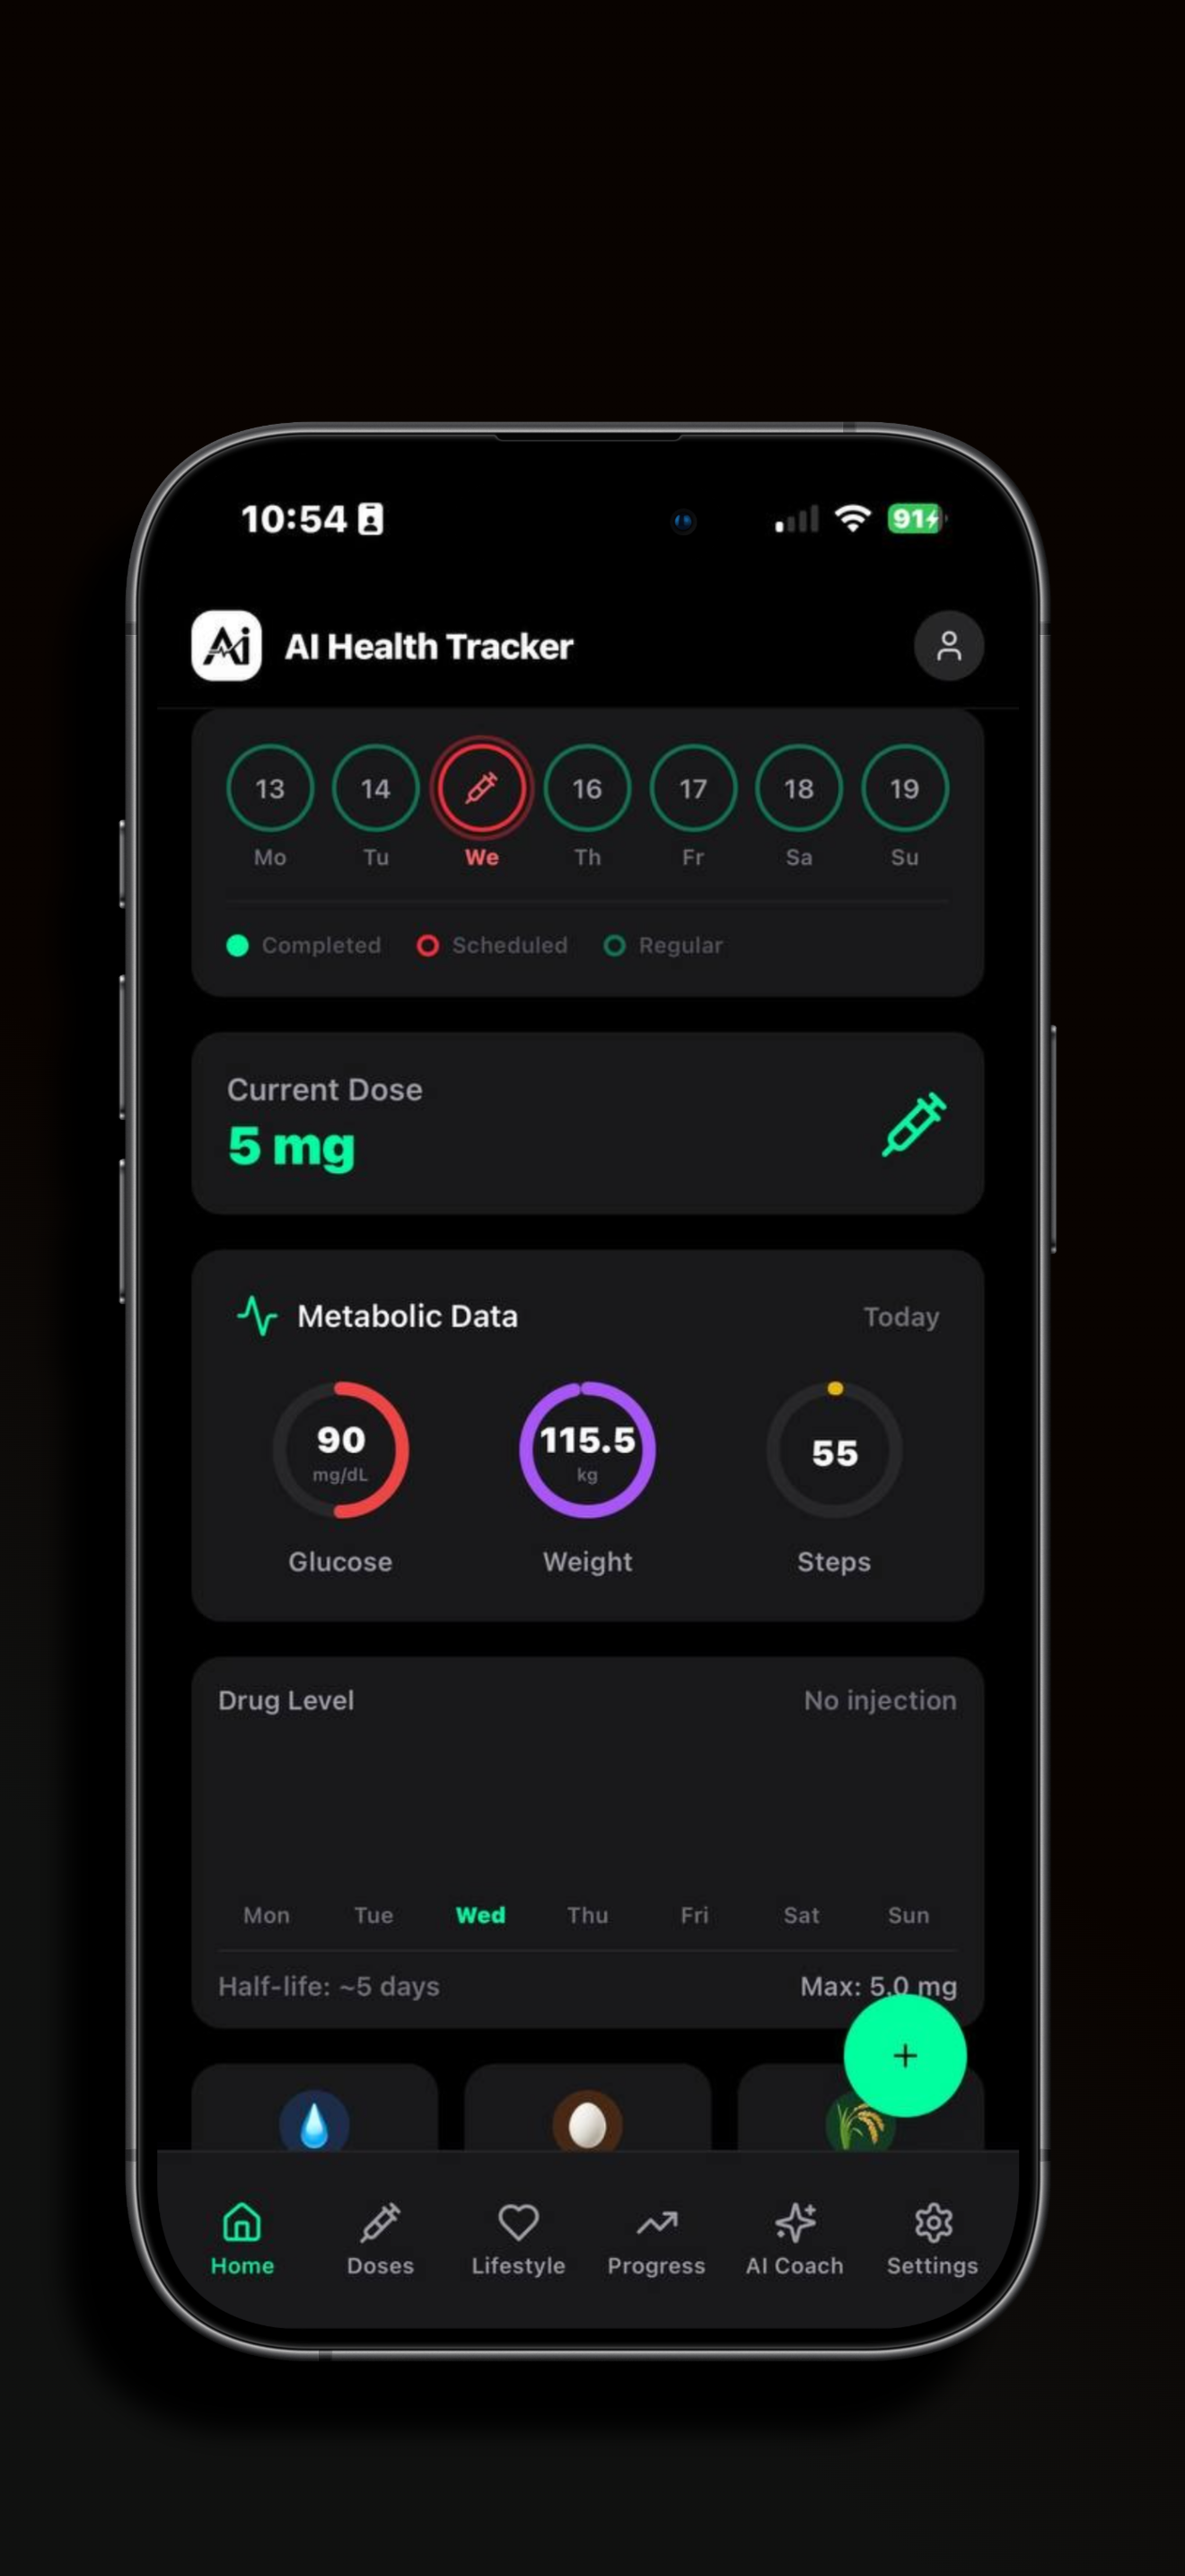
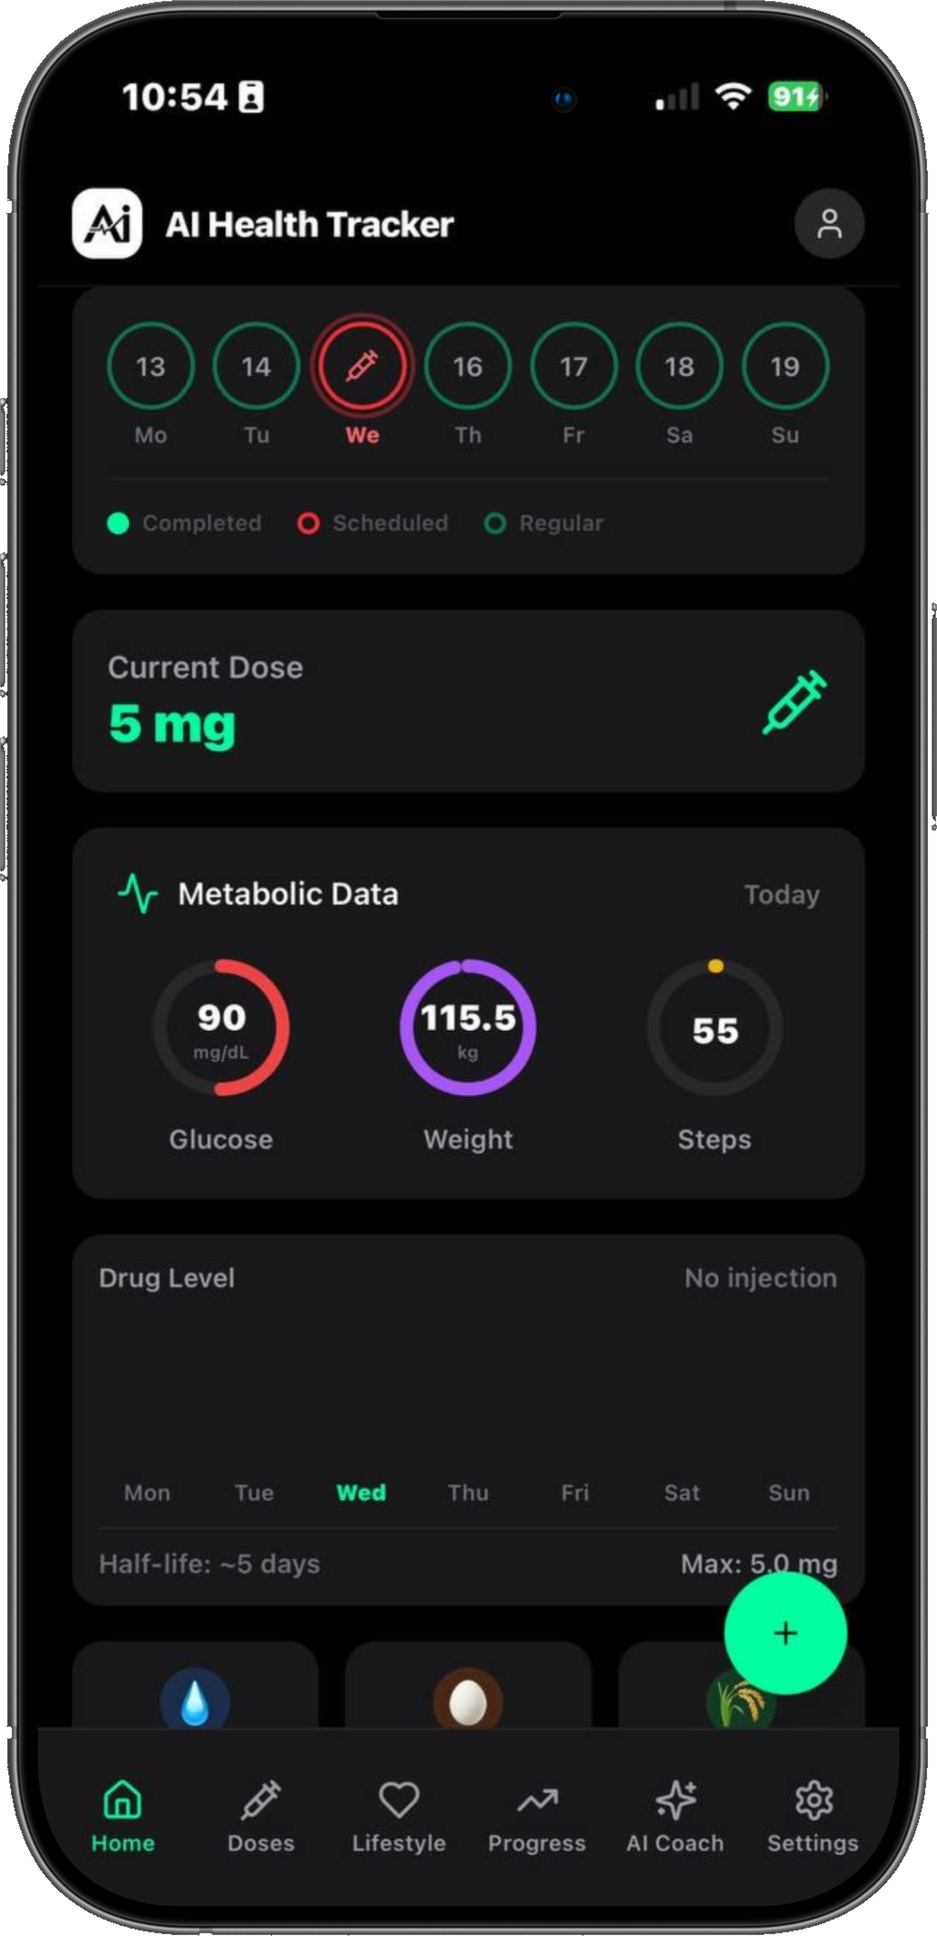
feat: real app screenshot, background removed, premium drop-shadow glow

diff --git a/src/pages/AppPage.tsx b/src/pages/AppPage.tsx
@@ -164,9 +164,8 @@ export default function AppPage() {
                   src={appScreenshot}
                   alt="AI Health Tracker App"
                   style={{
-                    width: 230,
-                    borderRadius: 40,
-                    boxShadow: `0 0 0 1px ${app.color}20, 0 32px 80px rgba(0,0,0,0.65), 0 0 60px ${app.color}18`,
+                    width: 240,
+                    filter: `drop-shadow(0 0 36px ${app.color}30) drop-shadow(0 32px 64px rgba(0,0,0,0.7))`,
                     position: 'relative',
                     zIndex: 1,
                     display: 'block',

diff --git a/src/components/Hero.tsx b/src/components/Hero.tsx
@@ -90,8 +90,7 @@ export default function Hero() {
               alt="AI Health Tracker App"
               style={{
                 width: 210,
-                borderRadius: 36,
-                boxShadow: '0 0 0 1px rgba(0,212,255,0.18), 0 24px 60px rgba(0,0,0,0.55), 0 0 40px rgba(0,212,255,0.15)',
+                filter: 'drop-shadow(0 0 28px rgba(0,212,255,0.22)) drop-shadow(0 24px 48px rgba(0,0,0,0.6))',
                 position: 'relative',
                 zIndex: 1,
                 display: 'block',
